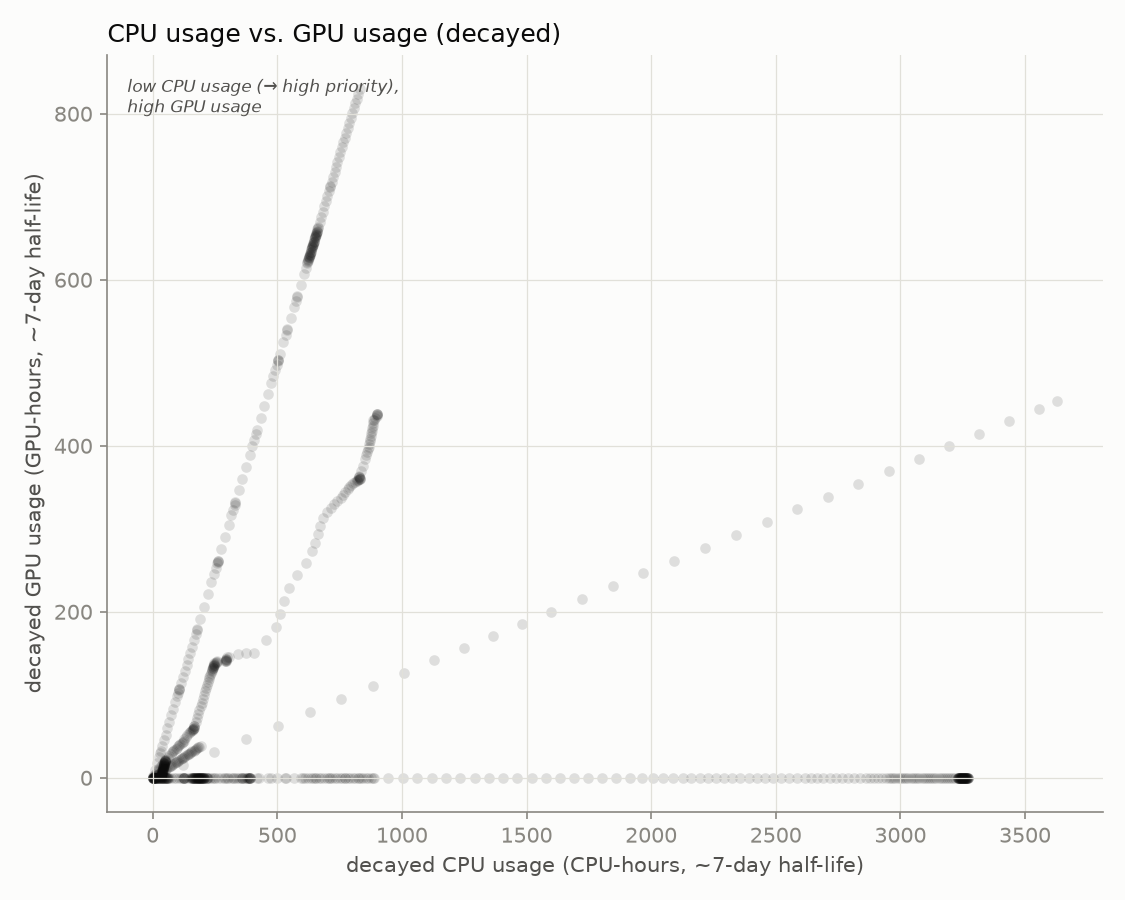
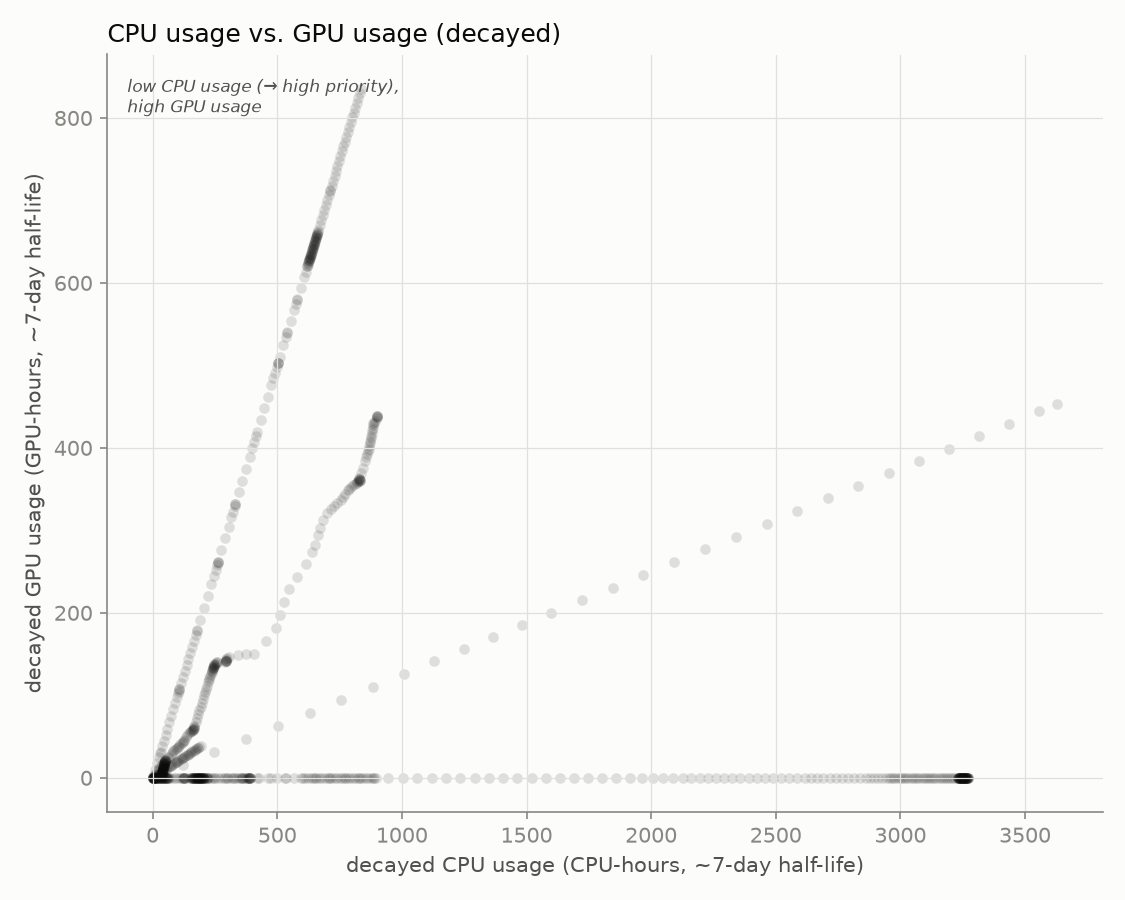
update 2026-08-08T21:00:01-07:00

diff --git a/README.md b/README.md
@@ -2,8 +2,8 @@
 
 Automated GPU/CPU/queue utilization tracker for `hopper.cluster`, updated every 30 minutes by cron. Usernames are anonymized to a stable per-account pseudonym; lab names are real.
 
-Last updated: 2026-08-08T20:30:10-07:00
-Samples: 157 queue snapshots, 157 GPU snapshots
+Last updated: 2026-08-08T21:00:10-07:00
+Samples: 158 queue snapshots, 158 GPU snapshots
 
 ## Resources
 
@@ -16,25 +16,25 @@ Samples: 157 queue snapshots, 157 GPU snapshots
 
 ## Headline
 
-- **42.6%** of the cluster's 60 GPUs allocated, averaged across all samples
-- **45.4%** average `nvidia-smi` utilization *when* a GPU is allocated to a job
-- **88.4%** average cgroup CPU utilization *when* a CPU is allocated to a job
+- **42.5%** of the cluster's 60 GPUs allocated, averaged across all samples
+- **45.3%** average `nvidia-smi` utilization *when* a GPU is allocated to a job
+- **88.5%** average cgroup CPU utilization *when* a CPU is allocated to a job
 
 ## Per lab / per user
 
 <table>
 <tr><th>Lab</th><th>User</th><th align='right'>GPU-hours allocated</th><th align='right'>CPU-hours allocated</th><th align='right'>GPU utilization</th></tr>
-<tr style='background-color:#d8ecd8'><td>zhuang-lab</td><td>user-0db9ced0</td><td align='right'>984.5</td><td align='right'>984.5</td><td align='right'>42%</td></tr>
+<tr style='background-color:#d8ecd8'><td>zhuang-lab</td><td>user-0db9ced0</td><td align='right'>991.5</td><td align='right'>991.5</td><td align='right'>41%</td></tr>
 <tr style='background-color:#d8efef'><td>witter-lab</td><td>user-554c620c</td><td align='right'>493.5</td><td align='right'>1023.0</td><td align='right'>68%</td></tr>
 <tr style='background-color:#d8efef'><td>witter-lab</td><td>user-d58f5a15</td><td align='right'>467.5</td><td align='right'>3740.0</td><td align='right'>9%</td></tr>
 <tr style='background-color:#fbebf1'><td>nerenberg-lab</td><td>user-6bb5f332</td><td align='right'>40.0</td><td align='right'>200.0</td><td align='right'>71%</td></tr>
 <tr style='background-color:#fbebf1'><td>nerenberg-lab</td><td>user-fedb5feb</td><td align='right'>22.5</td><td align='right'>54.0</td><td align='right'>67%</td></tr>
-<tr style='background-color:#fcf0d8'><td>ibarragarciapadilla-lab</td><td>user-3cfc41a3</td><td align='right'>0.0</td><td align='right'>4080.0</td><td align='right'>—</td></tr>
 <tr style='background-color:#fcf0d8'><td>ibarragarciapadilla-lab</td><td>user-dad71a72</td><td align='right'>0.0</td><td align='right'>6.0</td><td align='right'>—</td></tr>
+<tr style='background-color:#fcf0d8'><td>ibarragarciapadilla-lab</td><td>user-3cfc41a3</td><td align='right'>0.0</td><td align='right'>4080.0</td><td align='right'>—</td></tr>
 <tr style='background-color:#fcf0d8'><td>ibarragarciapadilla-lab</td><td>user-eec7ffae</td><td align='right'>0.0</td><td align='right'>426.5</td><td align='right'>—</td></tr>
-<tr style='background-color:#dfeaf8'><td>enkavi-lab</td><td>user-c21bdaa4</td><td align='right'>0.0</td><td align='right'>209.0</td><td align='right'>—</td></tr>
-<tr style='background-color:#fce8e0'><td>gillen-lab</td><td>user-b89a87ef</td><td align='right'>0.0</td><td align='right'>936.0</td><td align='right'>—</td></tr>
 <tr style='background-color:#fbebf1'><td>nerenberg-lab</td><td>user-b12dc074</td><td align='right'>0.0</td><td align='right'>16.0</td><td align='right'>—</td></tr>
+<tr style='background-color:#dfeaf8'><td>enkavi-lab</td><td>user-c21bdaa4</td><td align='right'>0.0</td><td align='right'>209.0</td><td align='right'>—</td></tr>
+<tr style='background-color:#fce8e0'><td>gillen-lab</td><td>user-b89a87ef</td><td align='right'>0.0</td><td align='right'>948.0</td><td align='right'>—</td></tr>
 </table>
 
 ## Usage over time
@@ -45,7 +45,7 @@ Samples: 157 queue snapshots, 157 GPU snapshots
 
 Solid = utilized by lab, hatched = allocated but idle, gray = usage not traceable to a lab, dashed line = cluster capacity.
 
-Attribution combines `nvidia-smi`'s process listing with Slurm's GPU-to-job binding record; the latter caught **2886** readings the former missed.
+Attribution combines `nvidia-smi`'s process listing with Slurm's GPU-to-job binding record; the latter caught **2897** readings the former missed.
 
 ## Queue
 
@@ -57,13 +57,13 @@ Attribution combines `nvidia-smi`'s process listing with Slurm's GPU-to-job bind
 
 ![CPU usage vs GPU usage, decayed](assets/cpu_gpu_usage.png)
 
-One point per user per snapshot (n=739), usage decayed on Slurm's ~7-day fairshare half-life.
+One point per user per snapshot (n=741), usage decayed on Slurm's ~7-day fairshare half-life.
 
 **GPU usage doesn't count toward priority on this cluster** (`TRESBillingWeights`/`PriorityWeightTRES` unset) - watch the **upper-left**: low CPU usage (high priority) with high GPU usage.
 
 ## Recommendations
 
-1. **Weight GPU usage in fairshare.** `TRESBillingWeights` and `PriorityWeightTRES` are both unset right now, so Slurm's fairshare score only sees CPU-seconds - a job holding 4 idle L40S GPUs costs nothing in priority as long as it isn't also holding CPUs. That's the exact failure mode the scatter above is built to catch (upper-left: low CPU usage, high GPU usage). Fix: `scontrol update partition=main TRESBillingWeights=CPU=1.0,GRES/gpu=<weight>` (or set `PriorityWeightTRES` cluster-wide), then `scontrol reconfigure` - a full `slurmctld` restart also works but drops in-flight priority state. A reasonable starting point for `<weight>` is the CPUs-per-GPU ratio on a GPU node (128 CPUs / 4 GPUs = 32), so one GPU costs as much fairshare as the CPU share it displaces; tune from there against next week's headline numbers (42.6% allocated, 45.4% utilized when allocated, as of this snapshot). The weight value itself is a policy call - loop in whoever owns cluster allocation policy before changing it.
+1. **Weight GPU usage in fairshare.** `TRESBillingWeights` and `PriorityWeightTRES` are both unset right now, so Slurm's fairshare score only sees CPU-seconds - a job holding 4 idle L40S GPUs costs nothing in priority as long as it isn't also holding CPUs. That's the exact failure mode the scatter above is built to catch (upper-left: low CPU usage, high GPU usage). Fix: `scontrol update partition=main TRESBillingWeights=CPU=1.0,GRES/gpu=<weight>` (or set `PriorityWeightTRES` cluster-wide), then `scontrol reconfigure` - a full `slurmctld` restart also works but drops in-flight priority state. A reasonable starting point for `<weight>` is the CPUs-per-GPU ratio on a GPU node (128 CPUs / 4 GPUs = 32), so one GPU costs as much fairshare as the CPU share it displaces; tune from there against next week's headline numbers (42.5% allocated, 45.3% utilized when allocated, as of this snapshot). The weight value itself is a policy call - loop in whoever owns cluster allocation policy before changing it.
 
 2. **Escalate on sustained low utilization** (see table and scatter above). Right now the clearest candidate is `user-d58f5a15` in `witter-lab`: 467.5 GPU-hours allocated at 9% average utilization, i.e. roughly 424 GPU-hours that sat idle instead of going to someone in the queue. Turning that into an automated escalation needs two decisions made up front: a utilization threshold (something like under 20% mean utilization over at least 50 allocated GPU-hours is a defensible starting bar - loose enough to skip short debugging runs, tight enough to catch parked allocations) and a grace period (how many consecutive low-utilization snapshots before it counts as "sustained" rather than a momentary lull between batches). Once those are set, the mechanism can be either soft (a bot that reads `data/gpu_samples.jsonl` and reminds the user/lab by email or Slack) or hard (a Slurm-side QOS penalty, e.g. `sacctmgr modify qos <qos> set Priority-=<n>`, applied after N consecutive offending snapshots). Neither exists yet - today the table and scatter above are a read-only signal, not an enforced policy.
 
